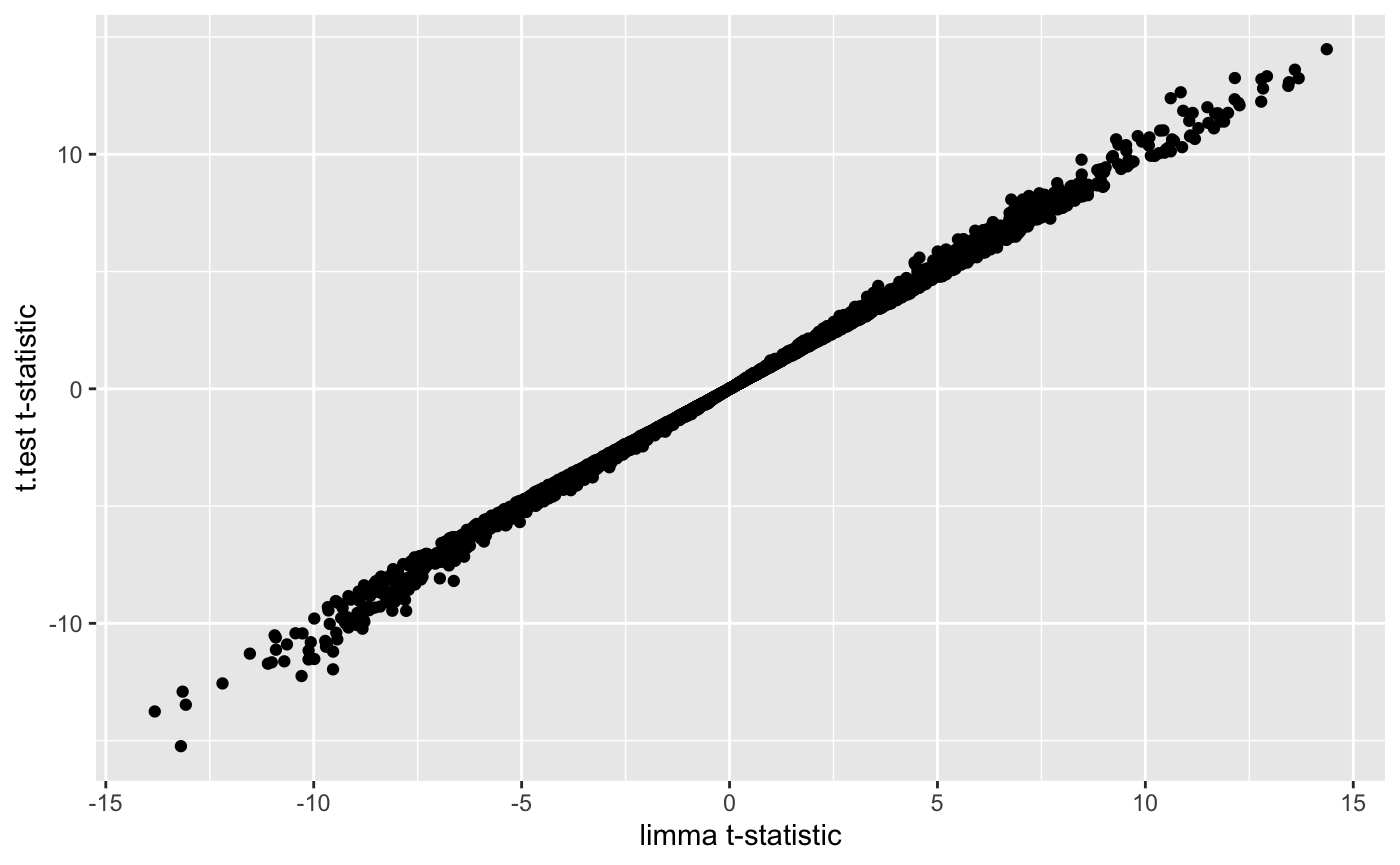
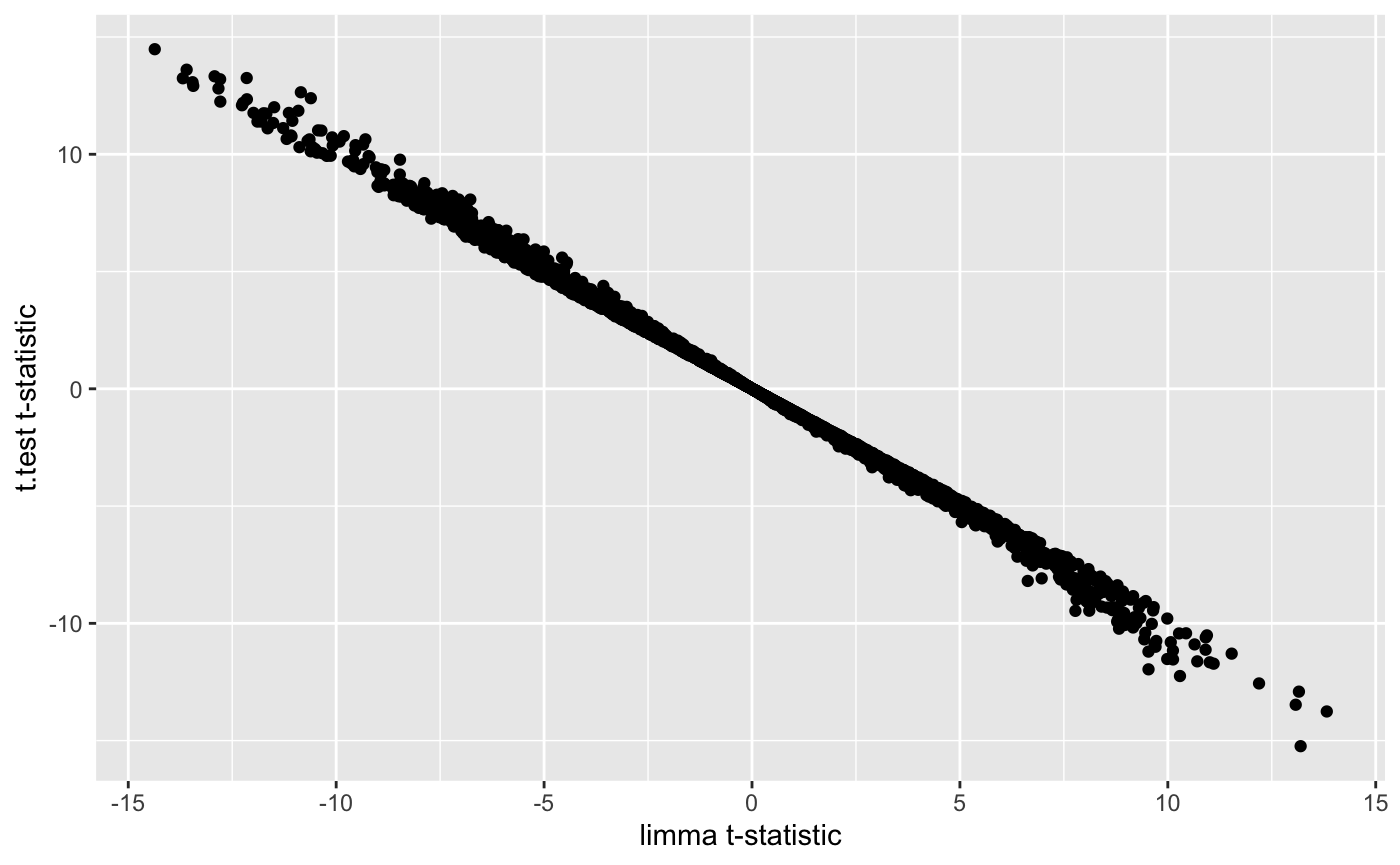
updated Diffanalysis

diff --git a/docs/articles/docs/Diffanalysis.html b/docs/articles/docs/Diffanalysis.html
@@ -345,7 +345,8 @@
         <span class="kw">col</span><span class="kw">=</span><span class="fu"><a href="https://rdrr.io/pkg/circlize/man/colorRamp2.html">colorRamp2</a></span>(<span class="fu"><a href="https://rdrr.io/r/base/c.html">c</a></span>(-<span class="fl">3</span>, <span class="fl">0</span>, <span class="fl">3</span>), <span class="fu"><a href="https://rdrr.io/r/base/c.html">c</a></span>(<span class="st">"darkblue"</span>, <span class="st">"white"</span>, <span class="st">"darkred"</span>)),
         <span class="kw">top_annotation</span><span class="kw">=</span><span class="no">ha.t</span>,
         <span class="kw">cluster_rows</span><span class="kw">=</span><span class="fl">FALSE</span>,
-        <span class="kw">cluster_columns</span><span class="kw">=</span><span class="fl">FALSE</span>,
+        <span class="kw">cluster_columns</span><span class="kw">=</span><span class="fl">TRUE</span>,
+        <span class="kw">column_split</span><span class="kw">=</span><span class="fl">2</span>,
         <span class="kw">row_title</span><span class="kw">=</span><span class="st">""</span>,
         <span class="kw">show_column_names</span><span class="kw">=</span><span class="fl">FALSE</span>,
         <span class="kw">show_row_names</span><span class="kw">=</span><span class="fl">FALSE</span>)</pre></body></html></div>
@@ -409,7 +410,7 @@
 <li><p>Definition of the “design matrix”</p></li>
 <li><p>Definition of the “contrast.”</p></li>
 <li><p>Fitting of the linear model.</p></li>
-<li><p>Fitting the contrast.</p></li>
+<li><p>Fitting of the contrast.</p></li>
 <li><p>Bayesian “moderation” of the genes’ standard errors towards a common value.</p></li>
 <li><p>Extract the relevant differential analysis information (fold-change, p-value, etc.)</p></li>
 </ol>
@@ -422,20 +423,46 @@
 <ol start="2" class="example" style="list-style-type: decimal">
 <li><span class="math display">\[Y_{gene} = \beta_0X_{0}+ \beta_1X_1\]</span></li>
 </ol>
-<p>where <span class="math inline">\(X_0X_1 = 01\)</span> for samples in class 0, and <span class="math inline">\(X_0X_1=10\)</span> for samples in class 1.</p>
-<p>It should be clear that in Equation (1), the parameter <span class="math inline">\(\beta_1\)</span> captures the relevant difference, while in Equation (2), the difference <span class="math inline">\(\beta_0-\beta_1\)</span> captures the differential value of interest. Thus, in the first formualation, we will not need to define a contrast, while in the second formulation we do.</p>
+<p>where <span class="math inline">\(X_0,X_1 = 1,0\)</span> for samples in class 0, and <span class="math inline">\(X_0,X_1=0,1\)</span> for samples in class 1.</p>
+<p>It should be noted that in Equation (1), the parameter <span class="math inline">\(\beta_1\)</span> captures the relevant differential expression, while in Equation (2), the difference <span class="math inline">\(\beta_0-\beta_1\)</span> captures the differential value of interest. Thus, in the first model specification we do not need to define a contrast, while in the second we do.</p>
+<p>In the following code chunk, we use the model of Equation (1), hence we don’t need to fit a contrast and we need to extract the parameter <span class="math inline">\(\beta_1\)</span> (basal) instead.</p>
+<div class="sourceCode"><html><body><pre class="r"><span class="co">## 1. Definition of the "design matrix"</span>
+<span class="no">design</span> <span class="kw">&lt;-</span> <span class="fu"><a href="https://rdrr.io/r/stats/model.matrix.html">model.matrix</a></span>(~<span class="fu"><a href="https://rdrr.io/r/base/factor.html">factor</a></span>(<span class="no">pheno</span>))
+<span class="fu"><a href="https://rdrr.io/r/base/colnames.html">colnames</a></span>(<span class="no">design</span>)</pre></body></html></div>
+<pre><code>## [1] "(Intercept)"        "factor(pheno)Basal"</code></pre>
+<div class="sourceCode"><html><body><pre class="r"><span class="co">## simplify names</span>
+<span class="fu"><a href="https://rdrr.io/r/base/colnames.html">colnames</a></span>(<span class="no">design</span>) <span class="kw">&lt;-</span> <span class="fu"><a href="https://rdrr.io/r/base/c.html">c</a></span>(<span class="st">"intercept"</span>, <span class="st">"basal"</span>)
+<span class="fu"><a href="https://rdrr.io/r/base/print.html">print</a></span>(<span class="fu"><a href="https://rdrr.io/r/base/unique.html">unique</a></span>(<span class="no">design</span>)) <span class="co"># show the 'coding' for the two classes</span></pre></body></html></div>
+<pre><code>##    intercept basal
+## 1          1     0
+## 26         1     1</code></pre>
+<div class="sourceCode"><html><body><pre class="r"><span class="co">## 3. Fitting the model</span>
+<span class="no">fit</span> <span class="kw">&lt;-</span> <span class="fu"><a href="https://rdrr.io/pkg/limma/man/lmFit.html">lmFit</a></span>(<span class="no">cancerSet</span>, <span class="no">design</span>)
+<span class="co">## 5. Bayesian "moderation"</span>
+<span class="no">fit</span> <span class="kw">&lt;-</span> <span class="fu"><a href="https://rdrr.io/pkg/limma/man/ebayes.html">eBayes</a></span>(<span class="no">fit</span>)
+<span class="fu"><a href="https://rdrr.io/r/utils/head.html">head</a></span>(<span class="no">fit</span>$<span class="no">coefficients</span>)</pre></body></html></div>
+<pre><code>##           intercept     basal
+## CLEC3A     6.912276 -4.877809
+## DSCAM-AS1  4.556425 -3.761019
+## SCGB2A2   13.565551 -7.013866
+## KCNJ3      7.455226 -5.262762
+## GSTM1      6.988551 -1.564535
+## CST9       5.007894 -4.534310</code></pre>
+<div class="sourceCode"><html><body><pre class="r"><span class="co">## 6. extract the relevant differential analysis information, sorted by p-value</span>
+<span class="no">limmaRes1</span> <span class="kw">&lt;-</span> <span class="fu"><a href="https://rdrr.io/pkg/limma/man/toptable.html">topTable</a></span>(<span class="no">fit</span>, <span class="kw">coef</span><span class="kw">=</span><span class="st">"basal"</span>,<span class="kw">adjust.method</span> <span class="kw">=</span> <span class="st">"BH"</span>, <span class="kw">n</span> <span class="kw">=</span> <span class="fl">Inf</span>, <span class="kw">sort.by</span> <span class="kw">=</span> <span class="st">"P"</span>)</pre></body></html></div>
 <p>In the following code chunk, we use the model of Equation (2), hence we need to define and fit the contrast.</p>
 <div class="sourceCode"><html><body><pre class="r"><span class="co">## 1. Definition of the "design matrix"</span>
 <span class="no">design</span> <span class="kw">&lt;-</span> <span class="fu"><a href="https://rdrr.io/r/stats/model.matrix.html">model.matrix</a></span>(~<span class="fl">0</span> + <span class="fu"><a href="https://rdrr.io/r/base/factor.html">factor</a></span>(<span class="no">pheno</span>))
 <span class="fu"><a href="https://rdrr.io/r/base/colnames.html">colnames</a></span>(<span class="no">design</span>)</pre></body></html></div>
 <pre><code>## [1] "factor(pheno)LumA"  "factor(pheno)Basal"</code></pre>
-<div class="sourceCode"><html><body><pre class="r"><span class="fu"><a href="https://rdrr.io/r/base/colnames.html">colnames</a></span>(<span class="no">design</span>) <span class="kw">&lt;-</span> <span class="fu"><a href="https://rdrr.io/r/base/c.html">c</a></span>(<span class="st">"LumA"</span>, <span class="st">"Basal"</span>)
+<div class="sourceCode"><html><body><pre class="r"><span class="co">## simplify names</span>
+<span class="fu"><a href="https://rdrr.io/r/base/colnames.html">colnames</a></span>(<span class="no">design</span>) <span class="kw">&lt;-</span> <span class="fu"><a href="https://rdrr.io/r/base/c.html">c</a></span>(<span class="st">"LumA"</span>, <span class="st">"Basal"</span>)
 <span class="fu"><a href="https://rdrr.io/r/base/print.html">print</a></span>(<span class="fu"><a href="https://rdrr.io/r/base/unique.html">unique</a></span>(<span class="no">design</span>)) <span class="co"># show the 'coding' for the two classes</span></pre></body></html></div>
 <pre><code>##    LumA Basal
 ## 1     1     0
 ## 26    0     1</code></pre>
 <div class="sourceCode"><html><body><pre class="r"><span class="co">## 2. Definition of the "contrast"</span>
-<span class="no">contrast.matrix</span> <span class="kw">&lt;-</span> <span class="fu"><a href="https://rdrr.io/pkg/limma/man/makeContrasts.html">makeContrasts</a></span>(<span class="no">LumA</span>-<span class="no">Basal</span>, <span class="kw">levels</span> <span class="kw">=</span> <span class="no">design</span>)
+<span class="no">contrast.matrix</span> <span class="kw">&lt;-</span> <span class="fu"><a href="https://rdrr.io/pkg/limma/man/makeContrasts.html">makeContrasts</a></span>(<span class="no">Basal</span>-<span class="no">LumA</span>, <span class="kw">levels</span> <span class="kw">=</span> <span class="no">design</span>)
 <span class="co">## 3. Fitting the model</span>
 <span class="no">fit</span> <span class="kw">&lt;-</span> <span class="fu"><a href="https://rdrr.io/pkg/limma/man/lmFit.html">lmFit</a></span>(<span class="no">cancerSet</span>, <span class="no">design</span>)
 <span class="co">## 4. Fitting the contrast</span>
@@ -444,21 +471,26 @@
 <span class="no">fit</span> <span class="kw">&lt;-</span> <span class="fu"><a href="https://rdrr.io/pkg/limma/man/ebayes.html">eBayes</a></span>(<span class="no">fit</span>)
 <span class="fu"><a href="https://rdrr.io/r/utils/head.html">head</a></span>(<span class="no">fit</span>$<span class="no">coefficients</span>)</pre></body></html></div>
 <pre><code>##            Contrasts
-##             LumA - Basal
-##   CLEC3A        4.877809
-##   DSCAM-AS1     3.761019
-##   SCGB2A2       7.013866
-##   KCNJ3         5.262762
-##   GSTM1         1.564535
-##   CST9          4.534310</code></pre>
+##             Basal - LumA
+##   CLEC3A       -4.877809
+##   DSCAM-AS1    -3.761019
+##   SCGB2A2      -7.013866
+##   KCNJ3        -5.262762
+##   GSTM1        -1.564535
+##   CST9         -4.534310</code></pre>
 <div class="sourceCode"><html><body><pre class="r"><span class="co">## 6. extract the relevant differential analysis information, sorted by p-value</span>
-<span class="no">limmaRes</span> <span class="kw">&lt;-</span> <span class="fu"><a href="https://rdrr.io/pkg/limma/man/toptable.html">topTable</a></span>(<span class="no">fit</span>, <span class="kw">adjust.method</span> <span class="kw">=</span> <span class="st">"BH"</span>, <span class="kw">n</span> <span class="kw">=</span> <span class="fl">Inf</span>, <span class="kw">sort.by</span> <span class="kw">=</span> <span class="st">"P"</span>)</pre></body></html></div>
+<span class="no">limmaRes2</span> <span class="kw">&lt;-</span> <span class="fu"><a href="https://rdrr.io/pkg/limma/man/toptable.html">topTable</a></span>(<span class="no">fit</span>, <span class="kw">adjust.method</span> <span class="kw">=</span> <span class="st">"BH"</span>, <span class="kw">n</span> <span class="kw">=</span> <span class="fl">Inf</span>, <span class="kw">sort.by</span> <span class="kw">=</span> <span class="st">"P"</span>)</pre></body></html></div>
+<p>As you can see below, the two model specifications yield the same results.</p>
+<div class="sourceCode"><html><body><pre class="r"><span class="fu"><a href="https://rdrr.io/r/base/all.equal.html">all.equal</a></span>(<span class="no">limmaRes1</span>$<span class="no">t</span>,<span class="no">limmaRes2</span>$<span class="no">t</span>)</pre></body></html></div>
+<pre><code>## [1] TRUE</code></pre>
+<div class="sourceCode"><html><body><pre class="r"><span class="fu"><a href="https://rdrr.io/r/base/all.equal.html">all.equal</a></span>(<span class="no">limmaRes1</span>$<span class="no">P.Value</span>,<span class="no">limmaRes2</span>$<span class="no">P.Value</span>)</pre></body></html></div>
+<pre><code>## [1] TRUE</code></pre>
 </div>
 <div id="comparing-t-test-and-limma-results" class="section level2">
 <h2 class="hasAnchor">
 <a href="#comparing-t-test-and-limma-results" class="anchor"></a>Comparing t-test and limma results</h2>
 <div class="sourceCode"><html><body><pre class="r"><span class="co">## comparing t-test results to limma results</span>
-<span class="no">combinedRes</span> <span class="kw">&lt;-</span> <span class="fu"><a href="https://rdrr.io/r/base/data.frame.html">data.frame</a></span>(<span class="no">limmaRes</span>, <span class="no">ttestRes1</span>[<span class="fu"><a href="https://rdrr.io/r/base/match.html">match</a></span>(<span class="no">limmaRes</span>$<span class="no">hgnc_symbol</span>, <span class="fu"><a href="https://rdrr.io/r/base/colnames.html">rownames</a></span>(<span class="no">ttestRes1</span>)),],
+<span class="no">combinedRes</span> <span class="kw">&lt;-</span> <span class="fu"><a href="https://rdrr.io/r/base/data.frame.html">data.frame</a></span>(<span class="no">limmaRes1</span>, <span class="no">ttestRes1</span>[<span class="fu"><a href="https://rdrr.io/r/base/match.html">match</a></span>(<span class="no">limmaRes1</span>$<span class="no">hgnc_symbol</span>, <span class="fu"><a href="https://rdrr.io/r/base/colnames.html">rownames</a></span>(<span class="no">ttestRes1</span>)),],
                           <span class="kw">check.names</span><span class="kw">=</span><span class="fl">FALSE</span>)
 <span class="fu"><a href="https://ggplot2.tidyverse.org/reference/ggplot.html">ggplot</a></span>(<span class="no">combinedRes</span>, <span class="fu"><a href="https://ggplot2.tidyverse.org/reference/aes.html">aes</a></span>(<span class="kw">x</span><span class="kw">=</span><span class="no">t</span>,<span class="kw">y</span><span class="kw">=</span><span class="no">t.score.t</span>)) +
     <span class="fu"><a href="https://ggplot2.tidyverse.org/reference/geom_point.html">geom_point</a></span>() +
@@ -489,15 +521,15 @@
 <pre><code>##       p=0.05 p=0.01
 ## limma   2559   1992
 ## ttest   2545   1968</code></pre>
-<div class="sourceCode"><html><body><pre class="r"><span class="co">## what is the overlap between t-ttest and limma derived significant genes? (top1k)</span>
+<div class="sourceCode"><html><body><pre class="r"><span class="co">## what is the overlap between t-ttest and limma derived significant genes?</span>
 <span class="no">qThresh</span> <span class="kw">&lt;-</span> <span class="fl">0.01</span>
 <span class="no">top.ttest</span> <span class="kw">&lt;-</span> <span class="fu"><a href="https://rdrr.io/r/base/colnames.html">rownames</a></span>(<span class="no">combinedRes</span>)[<span class="no">combinedRes</span>$<span class="no">t.fdr</span><span class="kw">&lt;=</span><span class="no">qThresh</span>]
 <span class="no">top.limma</span> <span class="kw">&lt;-</span> <span class="fu"><a href="https://rdrr.io/r/base/colnames.html">rownames</a></span>(<span class="no">combinedRes</span>)[<span class="no">combinedRes</span>$<span class="no">adj.P.Val</span><span class="kw">&lt;=</span><span class="no">qThresh</span>]
 <span class="no">topGenes</span> <span class="kw">&lt;-</span> <span class="fu"><a href="https://rdrr.io/r/base/list.html">list</a></span>(<span class="kw">top.ttest</span> <span class="kw">=</span> <span class="no">top.ttest</span>, <span class="kw">top.limma</span> <span class="kw">=</span> <span class="no">top.limma</span>)
 
 <span class="fu"><a href="https://rdrr.io/pkg/vennr/man/vennr.html">vennr</a></span>(<span class="no">topGenes</span>)</pre></body></html></div>
-<div id="htmlwidget-f5ce3dc0fe716a250e04" style="width:700px;height:432.632880098888px;" class="vennr html-widget"></div>
-<script type="application/json" data-for="htmlwidget-f5ce3dc0fe716a250e04">{"x":{"data":[{"sets":["top.ttest"],"size":1968,"label":"top.ttest (22)"},{"sets":["top.limma"],"size":1992,"label":"top.limma (46)"},{"sets":["top.limma","top.ttest"],"size":1946,"label":"1946"}],"settings":{"fontSize":"14px","fontFamily":"Helvetica,Arial,sans-serif"}},"evals":[],"jsHooks":[]}</script>
+<div id="htmlwidget-78bad143d3e1a853490f" style="width:700px;height:432.632880098888px;" class="vennr html-widget"></div>
+<script type="application/json" data-for="htmlwidget-78bad143d3e1a853490f">{"x":{"data":[{"sets":["top.ttest"],"size":1968,"label":"top.ttest (22)"},{"sets":["top.limma"],"size":1992,"label":"top.limma (46)"},{"sets":["top.limma","top.ttest"],"size":1946,"label":"1946"}],"settings":{"fontSize":"14px","fontFamily":"Helvetica,Arial,sans-serif"}},"evals":[],"jsHooks":[]}</script>
 </div>
 <div id="modelling-with-covariates" class="section level2">
 <h2 class="hasAnchor">
